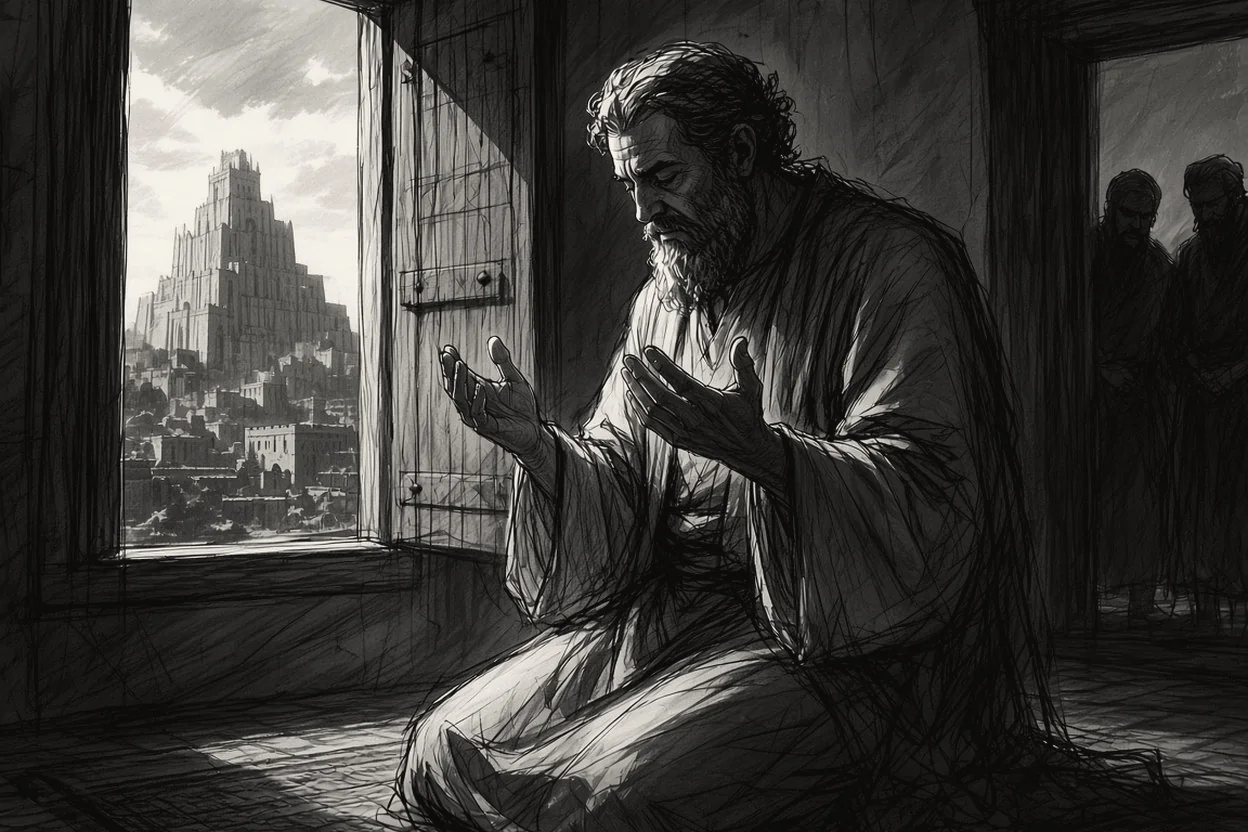
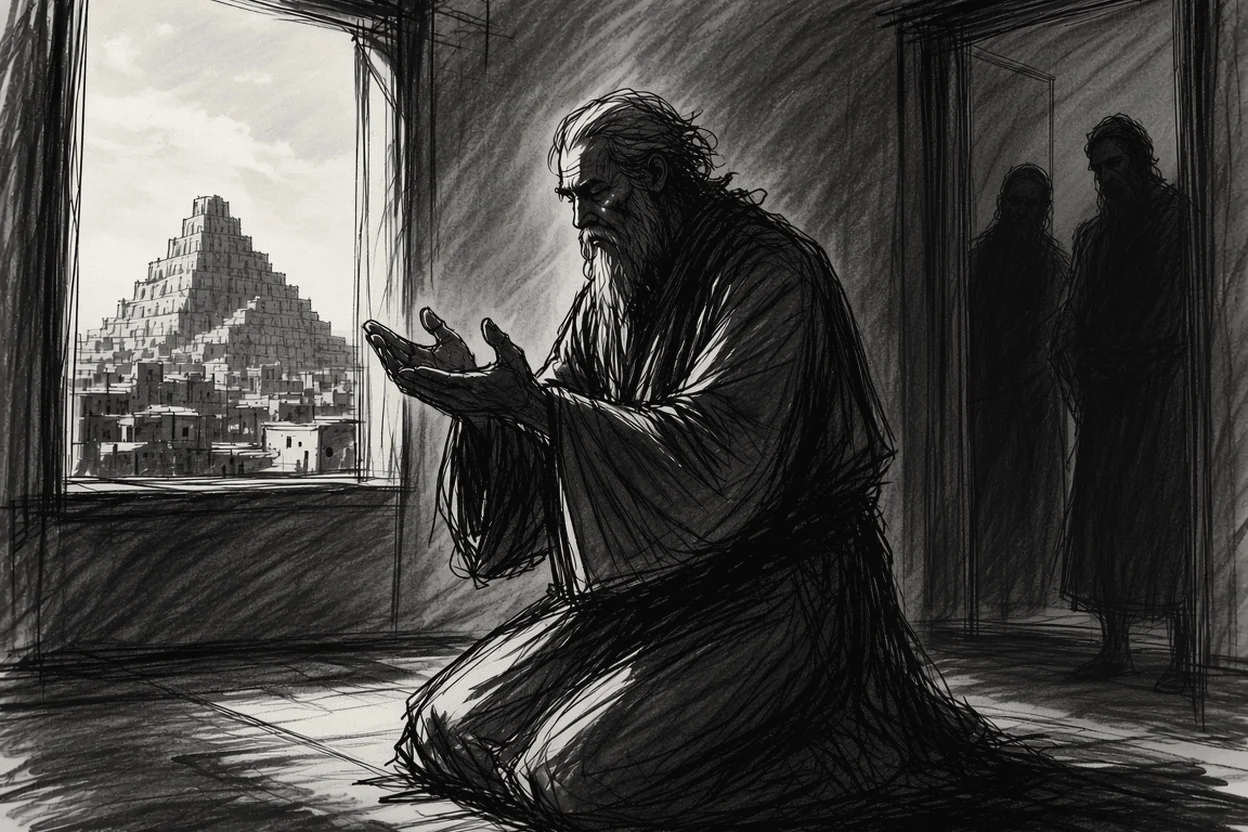
ART-004: regenerate 203-06 WebP from heavier charcoal art
Dave asked for a heavier charcoal style. Rebuild the four 203-06
WebP copies from the new 1248x832 originals and note the revision.

diff --git a/discipleship/scripts/lesson-image-assets.js b/discipleship/scripts/lesson-image-assets.js
@@ -180,7 +180,7 @@
     "images/203-06-daniel-window-bw.jpg": {
         "width": 1248,
         "height": 832,
[2 lines of base64/hex data omitted]
         "variants": [
             {
                 "src": "images/optimized/203-06-daniel-window-bw-640.webp",
@@ -195,7 +195,7 @@
     "images/203-06-daniel-window-color.jpg": {
         "width": 1248,
         "height": 832,
[2 lines of base64/hex data omitted]
         "variants": [
             {
                 "src": "images/optimized/203-06-daniel-window-color-640.webp",

diff --git a/discipleship/project-management/logs/2026-11-11-ART-004-grok.md b/discipleship/project-management/logs/2026-11-11-ART-004-grok.md
@@ -33,3 +33,14 @@ Local server: `python3 -m http.server 8765 --bind 127.0.0.1`. Playwright used in
 - `NODE_PATH=/tmp/gt-deps/node_modules GT_BROWSER_CHANNEL=chrome node scripts/l203_06_story_image_browser_check.js`: 43 passed at 375, 390, and 1280. Both layers load, the black-and-white layer fades to the color layer on scroll (390 samples: opacity 0.993, 0.797, 0.599, 0.399, 0.200, 0.000), `touchNext` joins the parable card, wrap height stays put (375: 223.5px, 390: 233.5px, 1280: 400.3px), all seven question IDs render, no sideways scroll.
 
 Not run: real iPhone/Safari. No merge and no deploy. Claude reviews before Dave merges.
+
+## Style revision, 2026-11-12
+
+Dave asked for a heavier charcoal style. The two originals were replaced on this branch (commits `98199da` and `9ca4a61`), same filenames, still 1248x832 and pixel-aligned. Regenerated the four 203-06 WebP copies from those originals. Unrelated greenhouse and bless-logo WebP bytes were put back.
+
+- `images/optimized/203-06-daniel-window-bw-640.webp` (62378 bytes)
+- `images/optimized/203-06-daniel-window-bw-1248.webp` (188848 bytes; original JPG 276569)
+- `images/optimized/203-06-daniel-window-color-640.webp` (67010 bytes)
+- `images/optimized/203-06-daniel-window-color-1248.webp` (206144 bytes; original JPG 333827)
+
+Checks rerun from `discipleship/` after the refresh: `qa_foundation.sh` passed (94 asset refs, 32 widget, 143 export, 415 John, 80 image); `test_lesson_export.js` 143; `test_answer_storage.js` 64; `check_lesson_assets.js` 94 refs; `test_lesson_images.js` 80; `l203_06_story_image_browser_check.js` 43 at 375/390/1280 (390 fade 0.990, 0.796, 0.599, 0.399, 0.200, 0.000). Still REVIEW. No merge.
